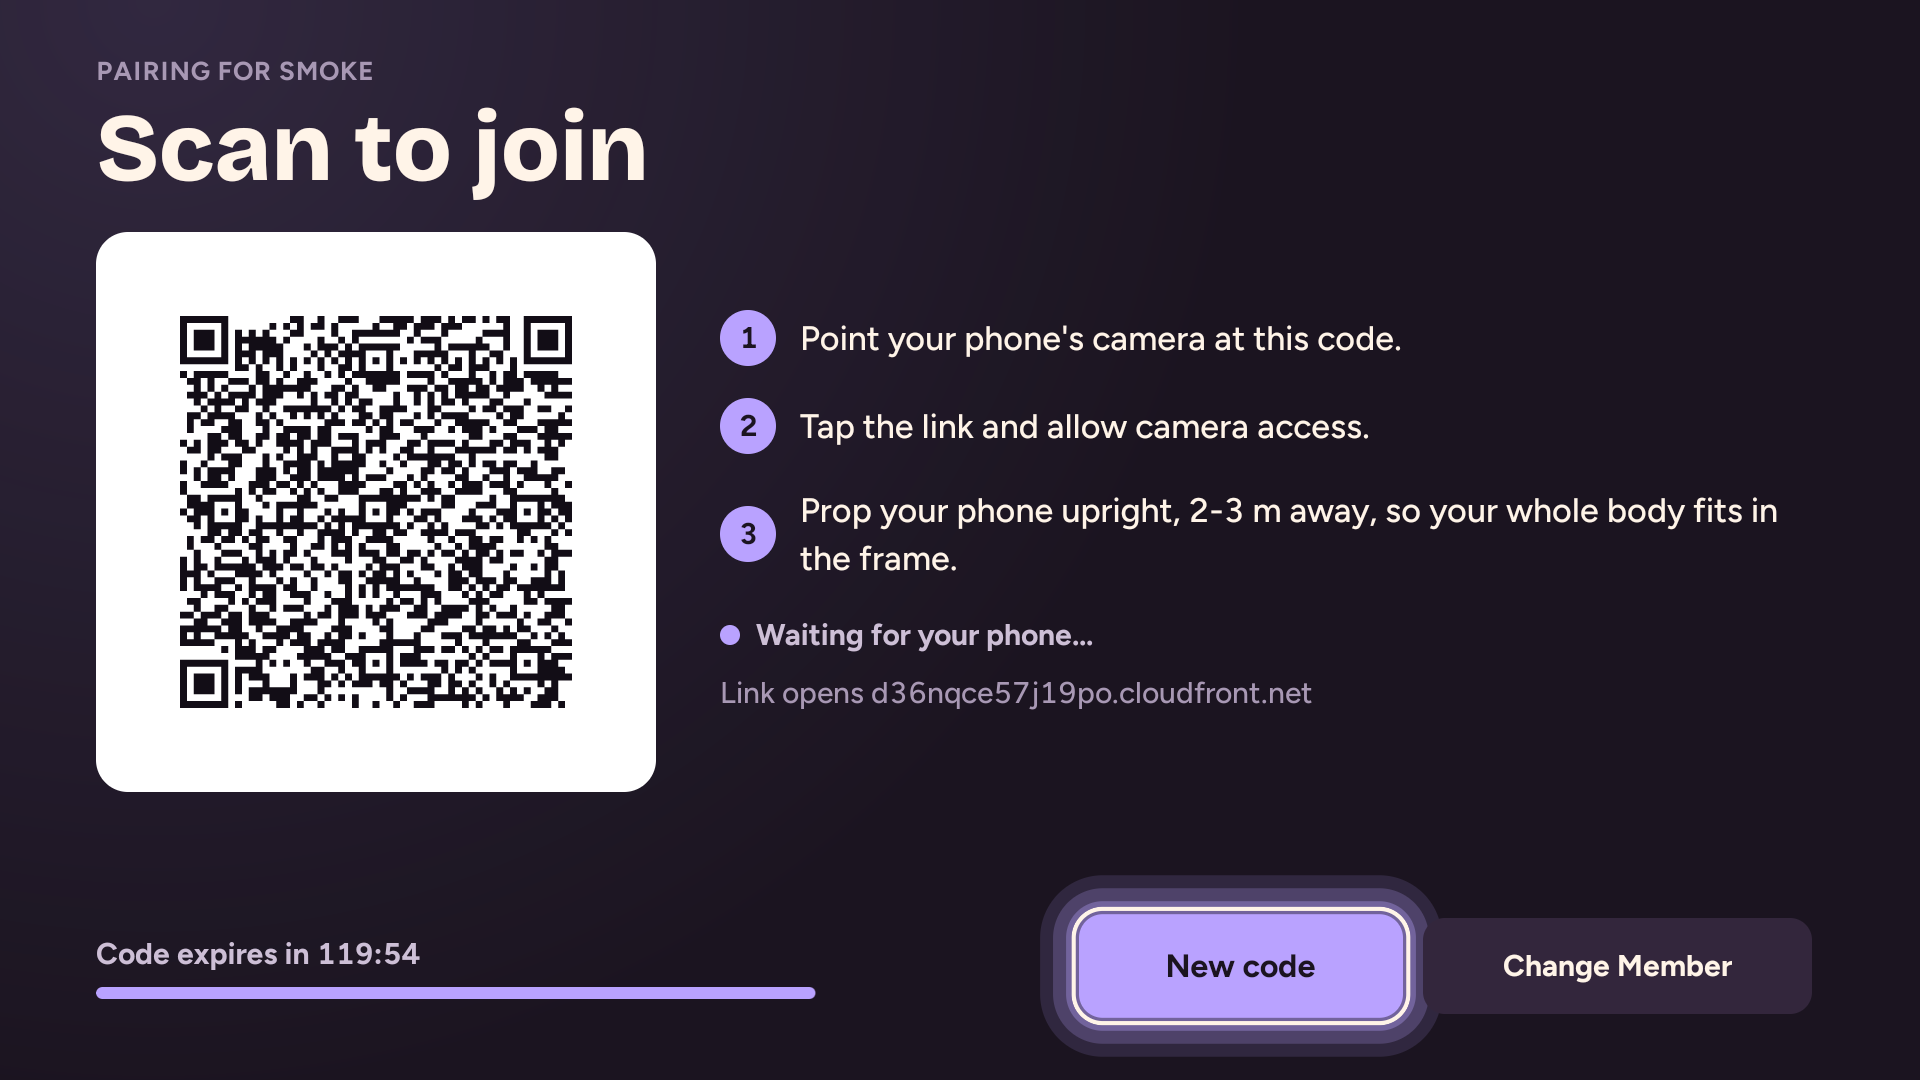
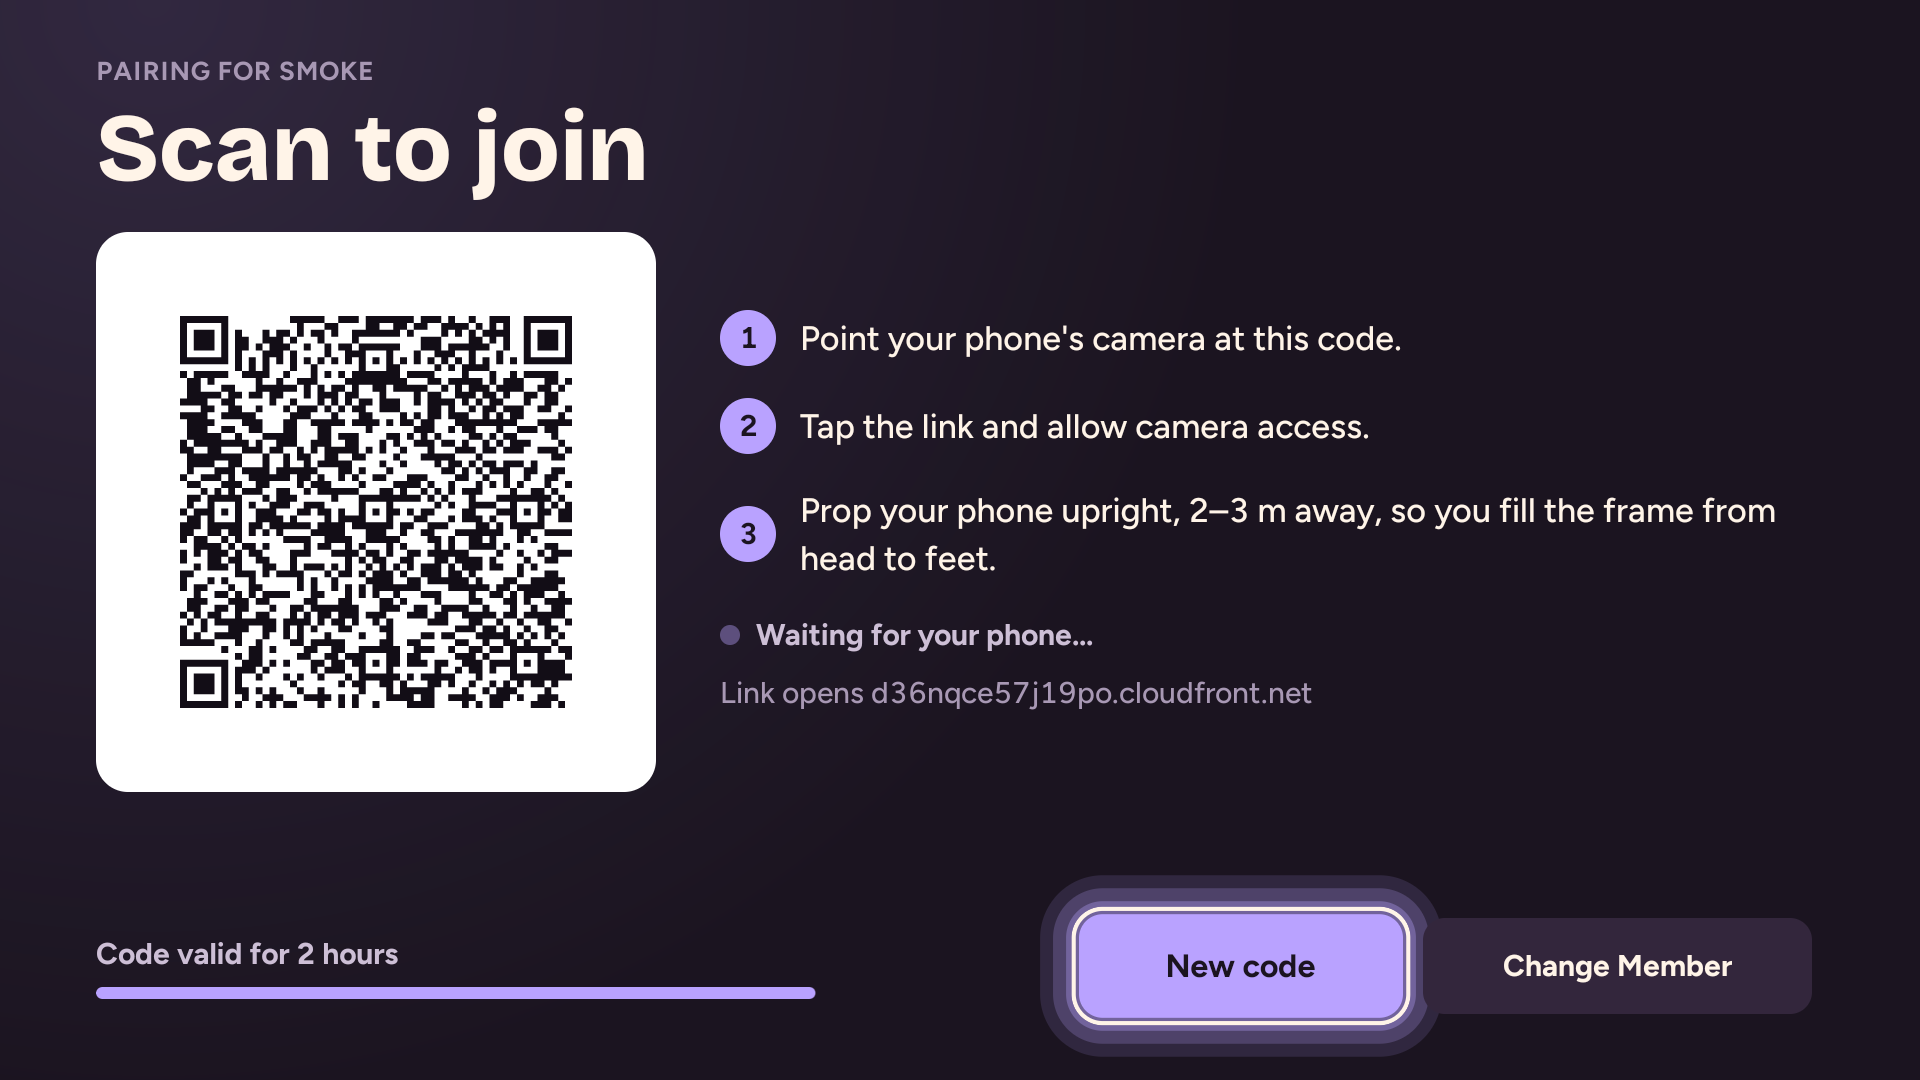
feat(tv): join on any phone signal, readable pairing expiry, ARM-only APK (57→33 MB)

diff --git a/apps/tv/packages/shared-ui/src/screens/PairScreen.tsx b/apps/tv/packages/shared-ui/src/screens/PairScreen.tsx
@@ -8,7 +8,7 @@ import { CheckIcon } from '../components/ui/Icons';
 import { Screen } from '../components/ui/Screen';
 import { Txt } from '../components/ui/Txt';
 import { useNow } from '../hooks/useNow';
-import { expiresAtMs, formatCountdown } from '../lib/format';
+import { expiresAtMs, expiryLabel } from '../lib/format';
 import { color, radius, s } from '../theme';
 import type { Member, SessionResponse } from '../vendor/protocol';
 
@@ -32,7 +32,7 @@ const HURRY_MS = 60_000;
 const STEPS = [
   "Point your phone's camera at this code.",
   'Tap the link and allow camera access.',
-  'Prop your phone upright, 2-3 m away, so your whole body fits in the frame.',
+  'Prop your phone upright, 2\u20133 m away, so you fill the frame from head to feet.',
 ] as const;
 
 /** Pair: a large QR for the phone, three steps, the expiry countdown, and "New code" / "Change Member". */
@@ -173,8 +173,9 @@ function Expiry({ ready, remaining }: { ready: boolean; remaining: number }) {
   if (remaining <= 0) return <Txt variant="bodyBold" color={color.scoreOk}>Code expired</Txt>;
   const hurry = remaining < HURRY_MS;
   return (
-    <Txt variant="bodyBold" color={hurry ? color.scoreOk : color.textDim} accessibilityLabel={`Code expires in ${formatCountdown(remaining)}`}>
-      {hurry ? 'Hurry: ' : ''}Code expires in {formatCountdown(remaining)}
+    <Txt variant="bodyBold" color={hurry ? color.scoreOk : color.textDim} accessibilityLabel={expiryLabel(remaining)}>
+      {hurry ? 'Hurry: ' : ''}
+      {expiryLabel(remaining)}
     </Txt>
   );
 }

diff --git a/apps/tv/packages/shared-ui/src/lib/__tests__/misc.test.ts b/apps/tv/packages/shared-ui/src/lib/__tests__/misc.test.ts
@@ -62,10 +62,28 @@ describe('smoothing', () => {
   });
 });
 
-import { expiresAtMs } from '../format';
+import { expiresAtMs, expiryLabel } from '../format';
 describe('expiresAtMs', () => {
   it('accepts epoch seconds or milliseconds', () => {
     expect(expiresAtMs(1_800_000_000)).toBe(1_800_000_000_000);
     expect(expiresAtMs(1_800_000_000_000)).toBe(1_800_000_000_000);
+  });
+});
+
+describe('expiryLabel', () => {
+  const MIN = 60_000;
+  it('says how long the code is valid when there is plenty of time', () => {
+    expect(expiryLabel(119 * MIN + 54_000)).toBe('Code valid for 2 hours');
+    expect(expiryLabel(90 * MIN)).toBe('Code valid for 2 hours');
+    expect(expiryLabel(60 * MIN * 5)).toBe('Code valid for 5 hours');
+  });
+  it('uses minutes between 10 and 90 minutes', () => {
+    expect(expiryLabel(75 * MIN)).toBe('Code valid for 75 minutes');
+    expect(expiryLabel(10 * MIN + 1000)).toBe('Code valid for 10 minutes');
+  });
+  it('switches to m:ss at 10 minutes and under', () => {
+    expect(expiryLabel(10 * MIN)).toBe('Code expires in 10:00');
+    expect(expiryLabel(9 * MIN + 58_000)).toBe('Code expires in 9:58');
+    expect(expiryLabel(5_000)).toBe('Code expires in 0:05');
   });
 });

diff --git a/apps/tv/packages/shared-ui/src/lib/__tests__/liveState.test.ts b/apps/tv/packages/shared-ui/src/lib/__tests__/liveState.test.ts
@@ -20,6 +20,21 @@ describe('liveReducer', () => {
     expect(s.aspect).toBe(DEFAULT_ASPECT);
   });
 
+  it.each([
+    ['set_start', { type: 'set_start', exercise: 'squat', t: 1 }],
+    ['rep', { type: 'rep', exercise: 'squat', index: 1, score: 100, faults: [], t: 1 }],
+    ['set_end', { type: 'set_end', setIndex: 1, t: 1, set: { exercise: 'squat', reps: 1, score: 100, faults: {}, durationMs: 1 } }],
+    ['control', { type: 'control', action: 'pause', t: 1 }],
+  ] as const)('treats a %s event as proof a phone joined even without hello', (_name, event) => {
+    expect(run([phone(event as PhoneEvent)]).hasPhone).toBe(true);
+  });
+
+  it('treats the first PoseBatch as proof a phone joined', () => {
+    expect(liveReducer(initialLiveState, { kind: 'pose_seen' }).hasPhone).toBe(true);
+    const joined = run([phone({ type: 'hello', memberId: 'm', t: 1 })]);
+    expect(liveReducer(joined, { kind: 'pose_seen' })).toBe(joined);
+  });
+
   it('uses the aspect from hello when present', () => {
     const s = run([phone({ type: 'hello', memberId: 'm1', aspect: 0.75, t: 1 })]);
     expect(s.aspect).toBe(0.75);

diff --git a/apps/tv/packages/shared-ui/src/lib/liveState.ts b/apps/tv/packages/shared-ui/src/lib/liveState.ts
@@ -68,6 +68,8 @@ export type LiveAction =
   | { kind: 'coach_timeout' }
   | { kind: 'dismiss_cue' }
   | { kind: 'end_requested' }
+  /** The first valid PoseBatch arrived: a phone is streaming even if its `hello` was missed. */
+  | { kind: 'pose_seen' }
   /** A new Session started: forget everything from the previous one. */
   | { kind: 'reset' };
 
@@ -154,8 +156,13 @@ function applyCoach(state: LiveState, message: CoachMessage): LiveState {
 
 export function liveReducer(state: LiveState, action: LiveAction): LiveState {
   switch (action.kind) {
-    case 'phone':
-      return applyPhoneEvent(state, action.event);
+    case 'phone': {
+      // Any phone event proves a phone has joined, so a missed `hello` cannot strand the TV on Pair.
+      const next = applyPhoneEvent(state, action.event);
+      return next.hasPhone ? next : { ...next, hasPhone: true };
+    }
+    case 'pose_seen':
+      return state.hasPhone ? state : { ...state, hasPhone: true };
     case 'coach':
       return applyCoach(state, action.message);
     case 'coach_timeout':

diff --git a/apps/tv/packages/shared-ui/src/lib/format.ts b/apps/tv/packages/shared-ui/src/lib/format.ts
@@ -37,3 +37,22 @@ export function newestSeenIndex(members: readonly { lastSeenAt?: number }[]): nu
 export function expiresAtMs(expiresAt: number): number {
   return expiresAt < 1e11 ? expiresAt * 1000 : expiresAt;
 }
+
+const HOUR_MS = 3_600_000;
+/** Above this, a countdown is noise: say how long the code is valid instead. */
+export const COUNTDOWN_BELOW_MS = 10 * MINUTE_MS;
+
+/**
+ * Pairing code expiry copy: "Code valid for 2 hours" / "Code valid for 45 minutes" above 10 minutes,
+ * "Code expires in 9:58" (m:ss) at or under 10 minutes.
+ */
+export function expiryLabel(remainingMs: number): string {
+  if (remainingMs > COUNTDOWN_BELOW_MS) {
+    if (remainingMs >= 90 * MINUTE_MS) {
+      const hours = Math.round(remainingMs / HOUR_MS);
+      return `Code valid for ${hours} ${hours === 1 ? 'hour' : 'hours'}`;
+    }
+    return `Code valid for ${Math.round(remainingMs / MINUTE_MS)} minutes`;
+  }
+  return `Code expires in ${formatCountdown(remainingMs)}`;
+}

diff --git a/apps/tv/packages/shared-ui/src/hooks/__tests__/useSessionStream.test.tsx b/apps/tv/packages/shared-ui/src/hooks/__tests__/useSessionStream.test.tsx
@@ -78,6 +78,15 @@ describe('useSessionStream', () => {
     expect(out.current!.telemetry.current.receiveLatencyMs).toBe(134);
   });
 
+  it('marks the phone as joined on the first valid PoseBatch, even if hello was missed', () => {
+    const { out, fake } = mount(SESSION);
+    expect(out.current!.state.hasPhone).toBe(false);
+    act(() => fake.emit(channels(SESSION).pose, { type: 'pose', frames: [] })); // invalid: min 1 frame
+    expect(out.current!.state.hasPhone).toBe(false);
+    act(() => fake.emit(channels(SESSION).pose, { type: 'pose', frames: [encodeFrame(pose, 12345)] }));
+    expect(out.current!.state.hasPhone).toBe(true);
+  });
+
   it('reports a null latency when the phone clock is not epoch ms', () => {
     const { out, fake } = mount(SESSION);
     act(() => fake.emit(channels(SESSION).pose, { type: 'pose', frames: [encodeFrame(pose, 12345)] }));

diff --git a/apps/tv/apps/expo-multi-tv/plugins/withAbiFilters.js b/apps/tv/apps/expo-multi-tv/plugins/withAbiFilters.js
@@ -1,0 +1,22 @@
+const { withAppBuildGradle } = require("expo/config-plugins");
+
+/**
+ * Fire TV devices are ARM. Prebuilt dependencies (Hermes, etc.) ship x86 and x86_64 .so files too; an
+ * `ndk.abiFilters` entry in defaultConfig drops them from the APK. Re-applied on every prebuild.
+ */
+const ABIS = ["armeabi-v7a", "arm64-v8a"];
+const MARKER = "// couch-coach: abiFilters";
+
+module.exports = function withAbiFilters(config) {
+  return withAppBuildGradle(config, (cfg) => {
+    const src = cfg.modResults.contents;
+    if (!src.includes(MARKER)) {
+      const filters = ABIS.map((a) => `"${a}"`).join(", ");
+      cfg.modResults.contents = src.replace(
+        /defaultConfig\s*\{/,
+        `defaultConfig {\n        ${MARKER}\n        ndk { abiFilters ${filters} }`
+      );
+    }
+    return cfg;
+  });
+};

diff --git a/apps/tv/packages/shared-ui/src/hooks/useSessionStream.ts b/apps/tv/packages/shared-ui/src/hooks/useSessionStream.ts
@@ -103,6 +103,7 @@ export function useSessionStream(sessionId: string | null, options: SessionStrea
       const newest = parsed.data.frames[parsed.data.frames.length - 1]!;
       bufferRef.current.pushBatch(parsed.data, arrival);
       const t = telemetry.current;
+      if (t.poseBatches === 0) dispatch({ kind: 'pose_seen' }); // first valid batch: the phone is there
       t.lastPoseAt = arrival;
       t.lastEventAt = arrival;
       t.poseBatches += 1;
